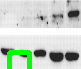
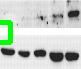
Better mask thresholding

Changed region(s): [[0.0741, 0.7246, 0.3951, 1.0], [0.0, 0.2899, 0.1728, 0.6667]]

diff --git a/CNN_Yuan/run_pure_conv.py b/CNN_Yuan/run_pure_conv.py
@@ -47,11 +47,11 @@ def Mask_Gen():
     return model
 
 classifier = Mask_Gen()
-classifier.load_weights("model_pure_cnn_dice.h5")
+classifier.load_weights("model_pure_cnn_mse.h5")
 print('Loaded Weights')
 
 # Prediction for the example
-img  = Image.open('dataset/original/three.jpeg')
+img  = Image.open('dataset/original/four_orig.jpeg')
 img = cv2.resize(np.float32(img), dsize=(324, 374), interpolation=cv2.INTER_CUBIC)
 # If only one channel
 img = cv2.merge((img,img,img))
@@ -66,6 +66,13 @@ print(res.shape)
 res = np.squeeze(res, axis=0)
 res = np.squeeze(res, axis=-1)
 print(res.shape)
+# res = cv2.GaussianBlur(res, (11, 11), 0)
+# res = cv2.threshold(res, 5, 255, cv2.THRESH_BINARY)[1]
+# 16,17 for four/one. 17,18 for three/two.
+lower_red = np.array([16])
+upper_red = np.array([17])
+# print(res[33,51])
+res = cv2.inRange(res, lower_red, upper_red)
 labels = {1:'Forged',2:'Pristine'}
 plt.imshow(res.astype('uint8'))
 cbar = plt.colorbar()
@@ -81,7 +88,7 @@ x_min = maxLoc[0] - 10
 y_max = maxLoc[1] + 10
 y_min = maxLoc[1] - 10
 # print(x_max)
-object = cv2.imread('dataset/original/three.jpeg')
+object = cv2.imread('dataset/original/four_orig.jpeg')
 # cv2.imshow('Orig', object)
 object = cv2.resize(object, dsize=(81, 69), interpolation=cv2.INTER_CUBIC)
 # cv2.imshow('Resize', object)
@@ -91,4 +98,4 @@ cv2.rectangle(object,(int(x_min),int(y_min)),(int(x_max),int(y_max)),(0,255,0),3
 cv2.imshow('Box',object)
 # cv2.waitKey(0)
 # cv2.destroyAllWindows()
-cv2.imwrite('Results/Dice/three_bound_box_dice.png',object)
+cv2.imwrite('Results/Dice/four_bound_box_dice.png',object)
